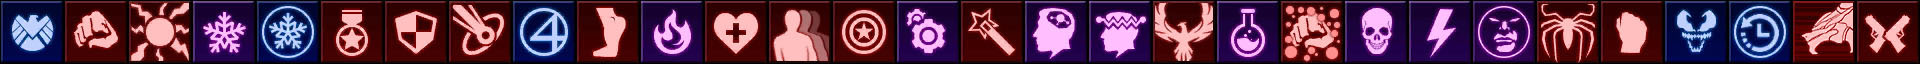
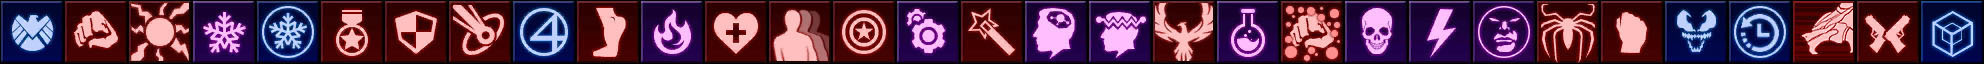
cosmiccube

diff --git a/index.html b/index.html
@@ -137,6 +137,7 @@ JavaScript is required to run this page.
     <button class="btn1" style="margin-bottom: 5px; padding:1px; line-height: 9px;" onclick="filterSelection('Chill')" title="Chill"><div class="ability chill flair2"></div></button>
     <button class="btn1" style="margin-bottom: 5px; padding:1px; line-height: 9px;" onclick="filterSelection('Cold Blooded')" title="Cold Blooded"><div class="ability coldblooded flair2"></div></button>
     <button class="btn1" style="margin-bottom: 5px; padding:1px; line-height: 9px;" onclick="filterSelection('Command')" title="Command"><div class="ability command flair2"></div></button>
+    <button class="btn1" style="margin-bottom: 5px; padding:1px; line-height: 9px;" onclick="filterSelection('Cosmic Cube')" title="Cosmic Cube"><div class="ability cosmiccube flair2"></div></button>
     <button class="btn1" style="margin-bottom: 5px; padding:1px; line-height: 9px;" onclick="filterSelection('Durability')" title="Durability"><div class="ability durability flair2"></div></button>
     <button class="btn1" style="margin-bottom: 5px; padding:1px; line-height: 9px;" onclick="filterSelection('Energy Projection')" title="Energy Projection"><div class="ability energyprojection flair2"></div></button>
 	<button class="btn1" style="margin-bottom: 5px; padding:1px; line-height: 9px;" onclick="filterSelection('Fantastic Four')" title="Fantastic Four"><div class="ability fantasticfour flair2"></div></button>

diff --git a/j_flair.js b/j_flair.js
@@ -375,7 +375,7 @@ flair.names = {
 "RedHulk01 uniform rulk1" : "Red Hulk [Marvel NOW!] #Super Hero# #Hero# #Combat# #Male# #Human# #Flame# #Durability#",
 "RedSkull00 character skull" : "Red Skull [Captain America: The First Avenger] #Super Villain# #Villain# #Blast# #Male# #Human# #MCU# #Hydra# #Command# #Pure Evil# #Potential#",
 "RedSkull01 uniform skull1" : "Red Skull [Secret Wars: Red Skull] #Super Villain# #Villain# #Speed# #Male# #Human# #Hydra# #Command# #Pure Evil# #Potential#",
-"RedSkull02 uniform skull2" : "Red Skull [Hydra Armor] #Super Villain# #Villain# #Blast# #Male# #Human# #Hydra# #Command# #Pure Evil# #Potential# #New#",
+"RedSkull02 uniform skull2" : "Red Skull [Hydra Armor] #Super Villain# #Villain# #Blast# #Male# #Human# #Hydra# #Command# #Pure Evil# #Cosmic Cube# #Potential# #New#",
 "Rescue00 character rescue" : "Rescue [Marvel's Avengers: Endgame] #Super Hero# #Hero# #Blast# #Female# #Human# #MCU# #Avengers# #Leadership# #Machine# #Potential#",
 "Rhino00 character rhino" : "Rhino [Classic] #Super Villain# #Villain# #Combat# #Male# #Human# #Durability# #Strong# #Potential#",
 "RocketRaccoon00 character rocket" : "Rocket Raccoon [Guardians of the Galaxy] #Super Hero# #Hero# #Blast# #Male# #Alien# #MCU# #Guardians# #Weapon Master# #Potential#",

diff --git a/c_flair.css b/c_flair.css
@@ -474,6 +474,7 @@
 .chill {background-position: -60px 0px;}
 .coldblooded {background-position: -80px 0px;}
 .command {background-position: -100px 0px;}
+.cosmiccube {background-position: -600px 0px;}
 .durability {background-position: -120px 0px;}
 .energyprojection {background-position: -140px 0px;}
 .fantasticfour {background-position: -160px 0px;}
